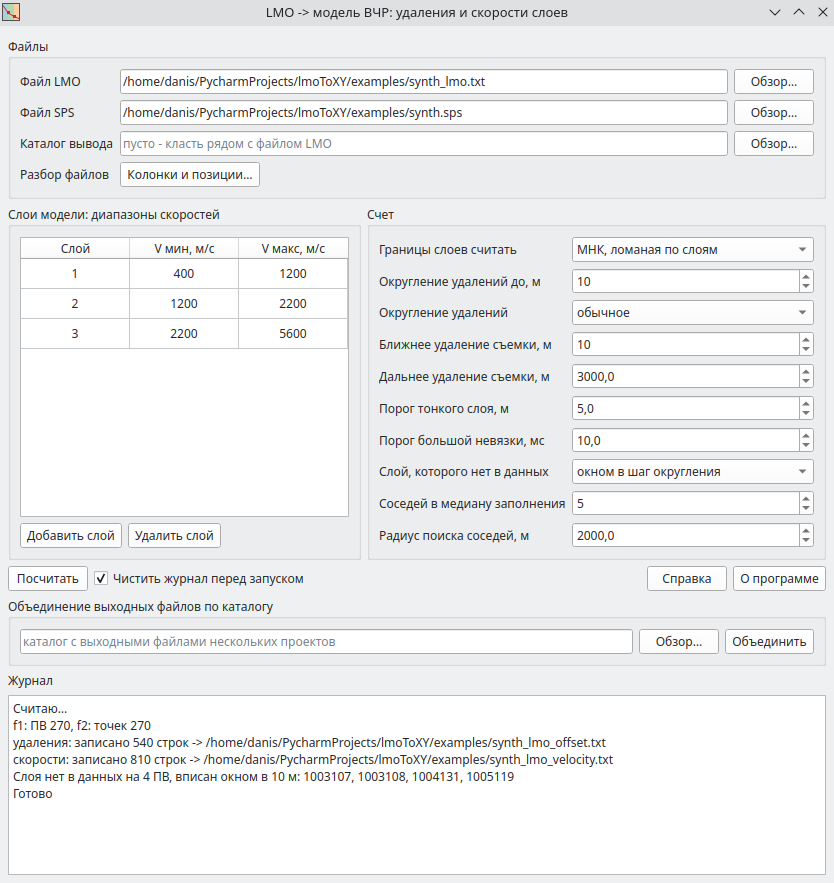
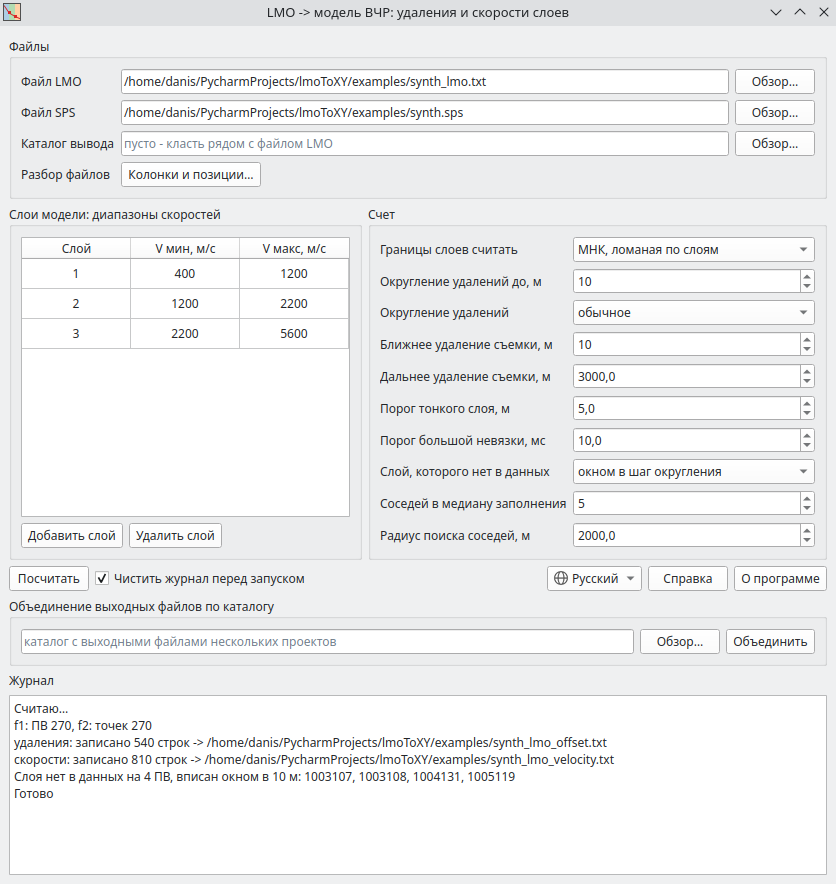
lmoToXY: снимок окна со списком языка, английский - для английской страницы

diff --git a/docs/lmotoxy.en.md b/docs/lmotoxy.en.md
@@ -5,7 +5,7 @@ layer boundaries in offsets and layer velocities at every shot point, takes the
 X/Y coordinates from SPS and writes two files: layer offsets - for refraction
 statics from first breaks - and layer velocities.
 
-![lmoToXY window after a run on the samples](img/lmotoxy.png)
+![lmoToXY window after a run on the samples](img/lmotoxy_en.png)
 
 ## Download
 
